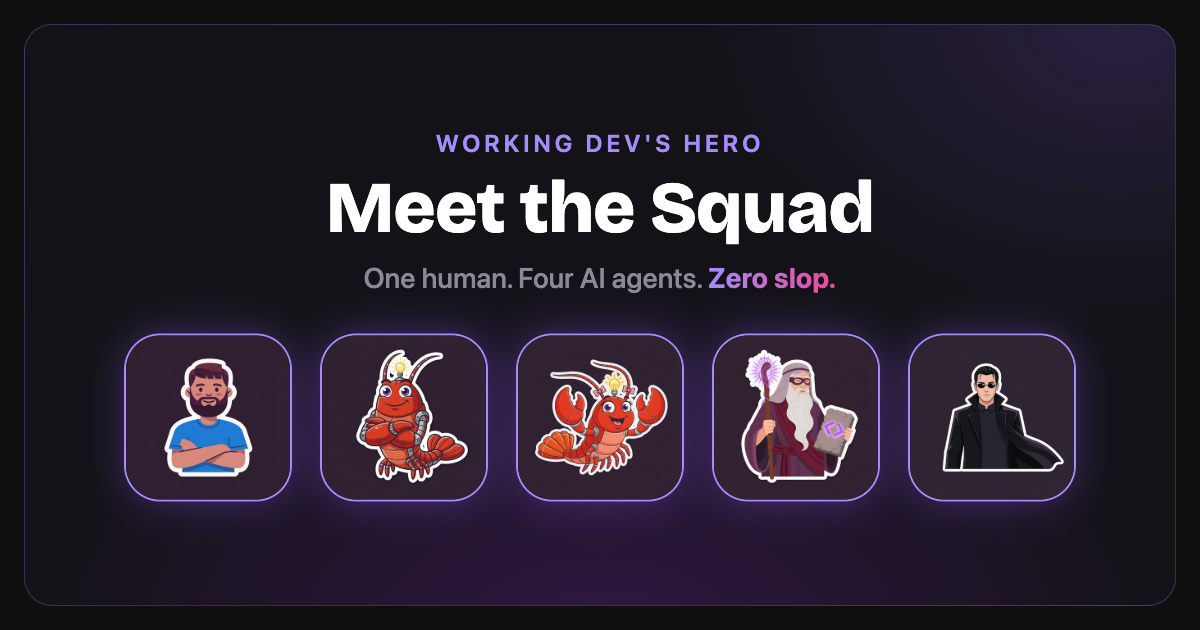
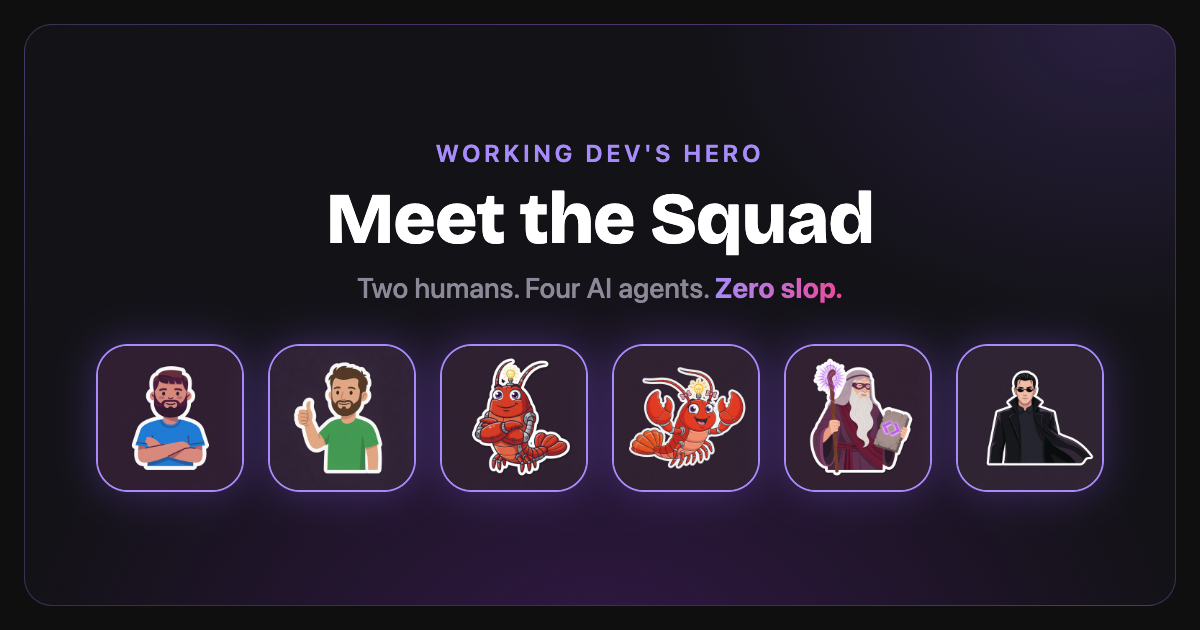
feat(team): add Dimitris Nossis as Hero in Training
Adds Dimitris to the team page between Bobby and the agents, with a
matching sticker avatar and an updated og-team card (six-avatar squad
row, "Two humans. Four AI agents." tagline).

Changed region(s): [[0.0617, 0.5127, 0.925, 0.8143], [0.2775, 0.2111, 0.74, 0.4825]]

diff --git a/scripts/og-card-team.html b/scripts/og-card-team.html
@@ -70,11 +70,11 @@
     color: transparent;
     font-weight: 700;
   }
-  .squad { display: flex; gap: 28px; }
+  .squad { display: flex; gap: 24px; }
   .squad img {
-    width: 168px;
-    height: 168px;
-    border-radius: 36px;
+    width: 148px;
+    height: 148px;
+    border-radius: 32px;
     border: 2px solid #a78bfa;
     box-shadow: 0 0 40px rgba(139, 92, 246, 0.35);
   }
@@ -85,10 +85,11 @@
     <div class="text">
       <div class="eyebrow">Working Dev's Hero</div>
       <div class="title">Meet the Squad</div>
-      <div class="tagline">One human. Four AI agents. <span class="grad">Zero slop.</span></div>
+      <div class="tagline">Two humans. Four AI agents. <span class="grad">Zero slop.</span></div>
     </div>
     <div class="squad">
       <img src="../src/assets/images/team/bobby.png" alt="" />
+      <img src="../src/assets/images/team/dimitris.png" alt="" />
       <img src="../src/assets/images/team/claudius.png" alt="" />
       <img src="../src/assets/images/team/claudia.png" alt="" />
       <img src="../src/assets/images/team/moses.png" alt="" />
